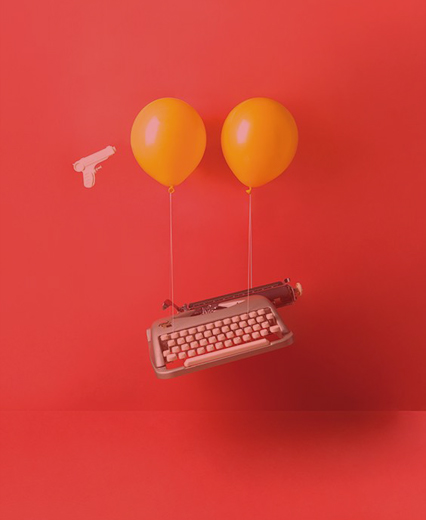
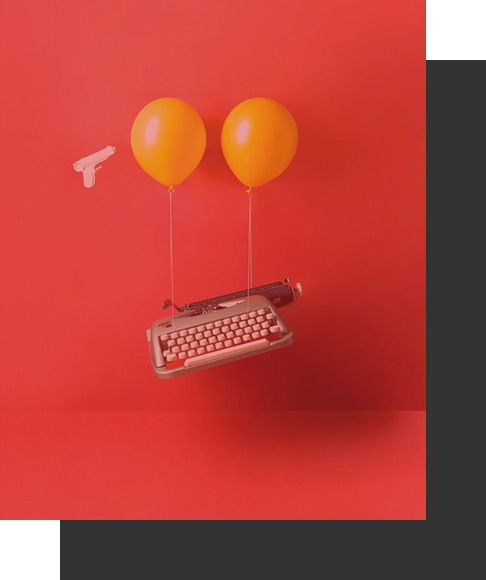
Готова секція What we do

diff --git a/index.html b/index.html
@@ -40,7 +40,103 @@
 	</div>
 </header>
 
+<section class="section what-we-do">
+	<div class="container-outer">
+		<div class="container">
+			<div class="what-we-do-wrapper">
+				<div class="what-we-do-content">
+					<h2 class="section-title">
+						We create product
+						<span class="shadow-title">
+							What We do?
+						</span>
+						<span class="smaller">
+						what exactly you need
+						</span>
+					</h2>
+					<div class="what-we-do-txt">
+						<p>
+							Lorem ipsum dolor sit amet, consectetur adipisicing elit. Consequuntur nostrum ipsa voluptatem optio, voluptates dicta veniam commodi saepe pariatur ipsum temporibus quos aut iste, unde consequatur officia laborum. Quas, veniam!
+						</p>
+						<p>
+							Lorem ipsum dolor sit amet, consectetur adipisicing elit. Consequuntur nostrum ipsa voluptatem optio, voluptates dicta veniam commodi saepe pariatur ipsum temporibus quos aut iste, unde consequatur officia laborum. Quas, veniam!
+						</p>
+					</div>
+				</div>
+				<div class="what-we-do-poster">
+					<img src="build/img/poster.jpg" alt="Poster">
+				</div>
+			</div>
+		</div>
+	</div>
+</section>
 
+<!-- <section class="section posts">
+	<div class="container-outer">
+		<div class="post-item">
+			<h2 class="section-title">
+				Innovative Ideas
+				<span class="shadow-title">
+					Innovative Thinking
+				</span>
+			</h2> 
+			<p class="post-intro">
+				Clean Website Design for Inspiration. Select option only of Awards winning clean website or websites designs.
+			</p>
+			<div class="post-content">
+				<p>Lorem ipsum dolor sit amet, consectetur adipisicing elit. Optio facere quasi nobis voluptas, sunt in pariatur, expedita necessitatibus sint nostrum autem sit magni, commodi excepturi delectus accusantium maxime culpa dolor.</p>
+				<p>Accusamus aperiam pariatur ex voluptatibus alias sunt esse eligendi eveniet eos nisi quidem exercitationem necessitatibus laudantium voluptatum vitae ut reiciendis voluptates, odit itaque beatae minima molestiae officiis consequatur suscipit. Mollitia.</p>
+				<p>Ad recusandae et, nostrum quae, rem animi incidunt a voluptas officia iusto labore blanditiis reprehenderit possimus soluta natus fugiat alias beatae nulla temporibus. Libero, numquam perferendis error! Iste, pariatur praesentium.</p>
+				<p>Inventore distinctio minima veniam soluta aspernatur id, error, ab facilis voluptate quam placeat vitae tempora corporis animi sunt expedita beatae doloremque atque, suscipit repellendus cumque dolorem ipsum fuga ullam. Doloribus.</p>
+				<p>Cumque sed quae non sint tempora autem dolorum, error nesciunt culpa explicabo rem unde et numquam nihil quos, aspernatur tenetur corrupti atque. Animi, mollitia enim ad. Harum, facere perspiciatis pariatur.</p>
+				<p>Nisi itaque porro quam omnis! Illum harum blanditiis, perspiciatis ratione ipsum, quaerat ut facilis perferendis quasi recusandae doloremque aperiam ab voluptates possimus? Dolorem repudiandae, atque distinctio sint eius alias a!</p>
+			</div>
+		</div>
+		<a href="#" class="visit-blog-link">
+			Visit Blog
+		</a>
+		<div class="slogan">
+			Great Design
+			<span class="slogan-center-txt">
+				is innovative 
+			</span>
+			<img src="build/img/header-bg.png" alt="" class="slogan-bg">
+		</div>
+	</div>
+</section>
+
+<section class="section resent-works">
+	<div class="container-outer">
+		<h2 class="section-title">
+			Resent Works
+			<span class="shadow-title">
+				Some Designs
+			</span>
+		</h2> 
+		<ul class="portfolio-list">
+			<li class="portfolio-item portfolio-item-intro">
+			</li>
+			<li class="portfolio-item">
+				<a href="#" class="portfolio-link">
+					<img src="src/img/bottle.jpg" alt="Resent work. Design preview" class="portfolio-img">
+				</a>
+			</li>
+			<li class="portfolio-item">
+				<a href="#" class="portfolio-link">
+					<img src="src/img/woomen.jpg" alt="Resent work. Design preview" class="portfolio-img">
+				</a>
+			</li>
+			<li class="portfolio-item">
+				<a href="#" class="portfolio-link">
+					<img src="src/img/chear.jpg" alt="Resent work. Design preview" class="portfolio-img">
+				</a>
+			</li>
+		</ul>
+		<a href="#" class="visit-portfolio-link ttu">
+			Visit portfolio
+		</a>
+	</div>
+</section> -->
 
 
 <!-- 	<script  src="build/js/all.js"></script> -->

diff --git a/src/css/_media.scss b/src/css/_media.scss
@@ -1,4 +1,7 @@
 @media all and (max-width: 1500px) {
+	.section-title {
+		font-size: 48px;
+	}
 	.offer {
 		margin-left: 210px;
 		&-title {
@@ -18,6 +21,14 @@
 	.offer {
 		margin-left: 13vw;
 	}
+	.what-we-do {
+		&-content {
+			width: 65%
+		}
+		&-poster {
+			width: 25%;
+		}
+	}
 
 }
 
@@ -25,6 +36,18 @@
 
 
 @media all and (max-width: 992px) {
+	.container {
+		margin: 0 8vw;
+	}
+	.section {
+		padding: 75px 0;
+	}
+	.section-title {
+		font-size: 42px;
+	}
+	.shadow-title {
+			left: -3vw;
+	}
 	.page-header {
 		.logo-img {
 			left: 50%;
@@ -47,6 +70,13 @@
 
 
 @media all and (max-width: 786px) {
+	body {
+		font-size: 15px;
+	}
+	.shadow-title {
+		// font-size: 1.6em;
+		display: none
+	}
 	.header-bg {
 		display: none;
 	}
@@ -68,9 +98,29 @@
 			height: 7px;
 		}
 	}
+	.what-we-do {
+		.smaller {
+			margin-bottom: 30px;
+		}
+		&-wrapper {
+			flex-wrap: wrap;
+			justify-content: space-around;
+		}
+		&-content {
+			width: 100%;
+		}
+		&-poster {
+			width: 45%;
+			order: -1;
+			margin-bottom: 60px;
+		}
+	}
 }
 
 @media all and (max-width: 568px) {
+	.section-title {
+		font-size: 32px;
+	}
 	.offer {
 		&-title {
 		font-size: 26px;

diff --git a/src/css/_common.scss b/src/css/_common.scss
@@ -1,10 +1,21 @@
 body {
 	font-family: $txt-font;
 	font-size: 17px;
+	color: $txt-color;
 }
 
 h1 {
-	margin: 0
+	margin: 0;
+}
+
+p {
+	margin: 0 0 30px;
+	line-height: 1.65em;
+	text-align: justify;
+}
+
+.section {
+	padding: 150px 0;
 }
 
 .border {
@@ -12,8 +23,9 @@ h1 {
 }
 .container {
 	max-width: 1170px;
-	margin: 0 210px;
+	margin: 0 205px;
 	&-outer {
+		width: 100%;
 		max-width: 1580px;
 		margin: 0 auto;
 	}
@@ -39,5 +51,31 @@ h1 {
     	outline: none;
     }
 }
+.section-title {
+	font-family: $title-font;
+	font-size: 60px;
+	color: $title-color;
+	position: relative;
+	margin: 0;
+	padding: 0;
+}
+.shadow-title {
+	font-size: 1.8em;
+	opacity: 0.03;
+	display: block;
+	position: absolute;
+	top: 0.3em;
+	left: -100px;
+	line-height: 1;
+}
+.smaller {
+	display: block;
+	font-size: 0.25em;
+	letter-spacing: 0.12em;
+	font-family: $txt-font;
+	text-transform: uppercase;
+	margin-top: 10px;
+}
+
 
 

diff --git a/src/css/_whatwedo.scss b/src/css/_whatwedo.scss
@@ -1,0 +1,23 @@
+.what-we-do {
+	.smaller {
+		margin-left: 50px;
+		margin-bottom: 50px;
+	}
+	&-wrapper {
+		display: flex;
+		align-items: center;
+		justify-content: space-between;
+	}
+	&-content,
+	&-poster {
+		width: 46%;
+	}
+	&-txt {
+		padding: 10px 10px 10px 50px;
+	}
+	&-poster {
+		img {
+			width: 100%;
+		}
+	}
+}

diff --git a/src/css/_variables.scss b/src/css/_variables.scss
@@ -6,7 +6,7 @@ $title-font: 'Playfair Display', serif;
 
 $offer-title-color: #dbdbdb;
 $txt-color: #898f9f;
-$title-color: #5a5a5a;
+$title-color: #393939;
 $accent-color: #d22425;
 
 

diff --git a/src/css/main.scss b/src/css/main.scss
@@ -5,5 +5,7 @@
 @import "common";
 
 @import "header";
+@import "whatwedo";
+
 
 @import "media";
